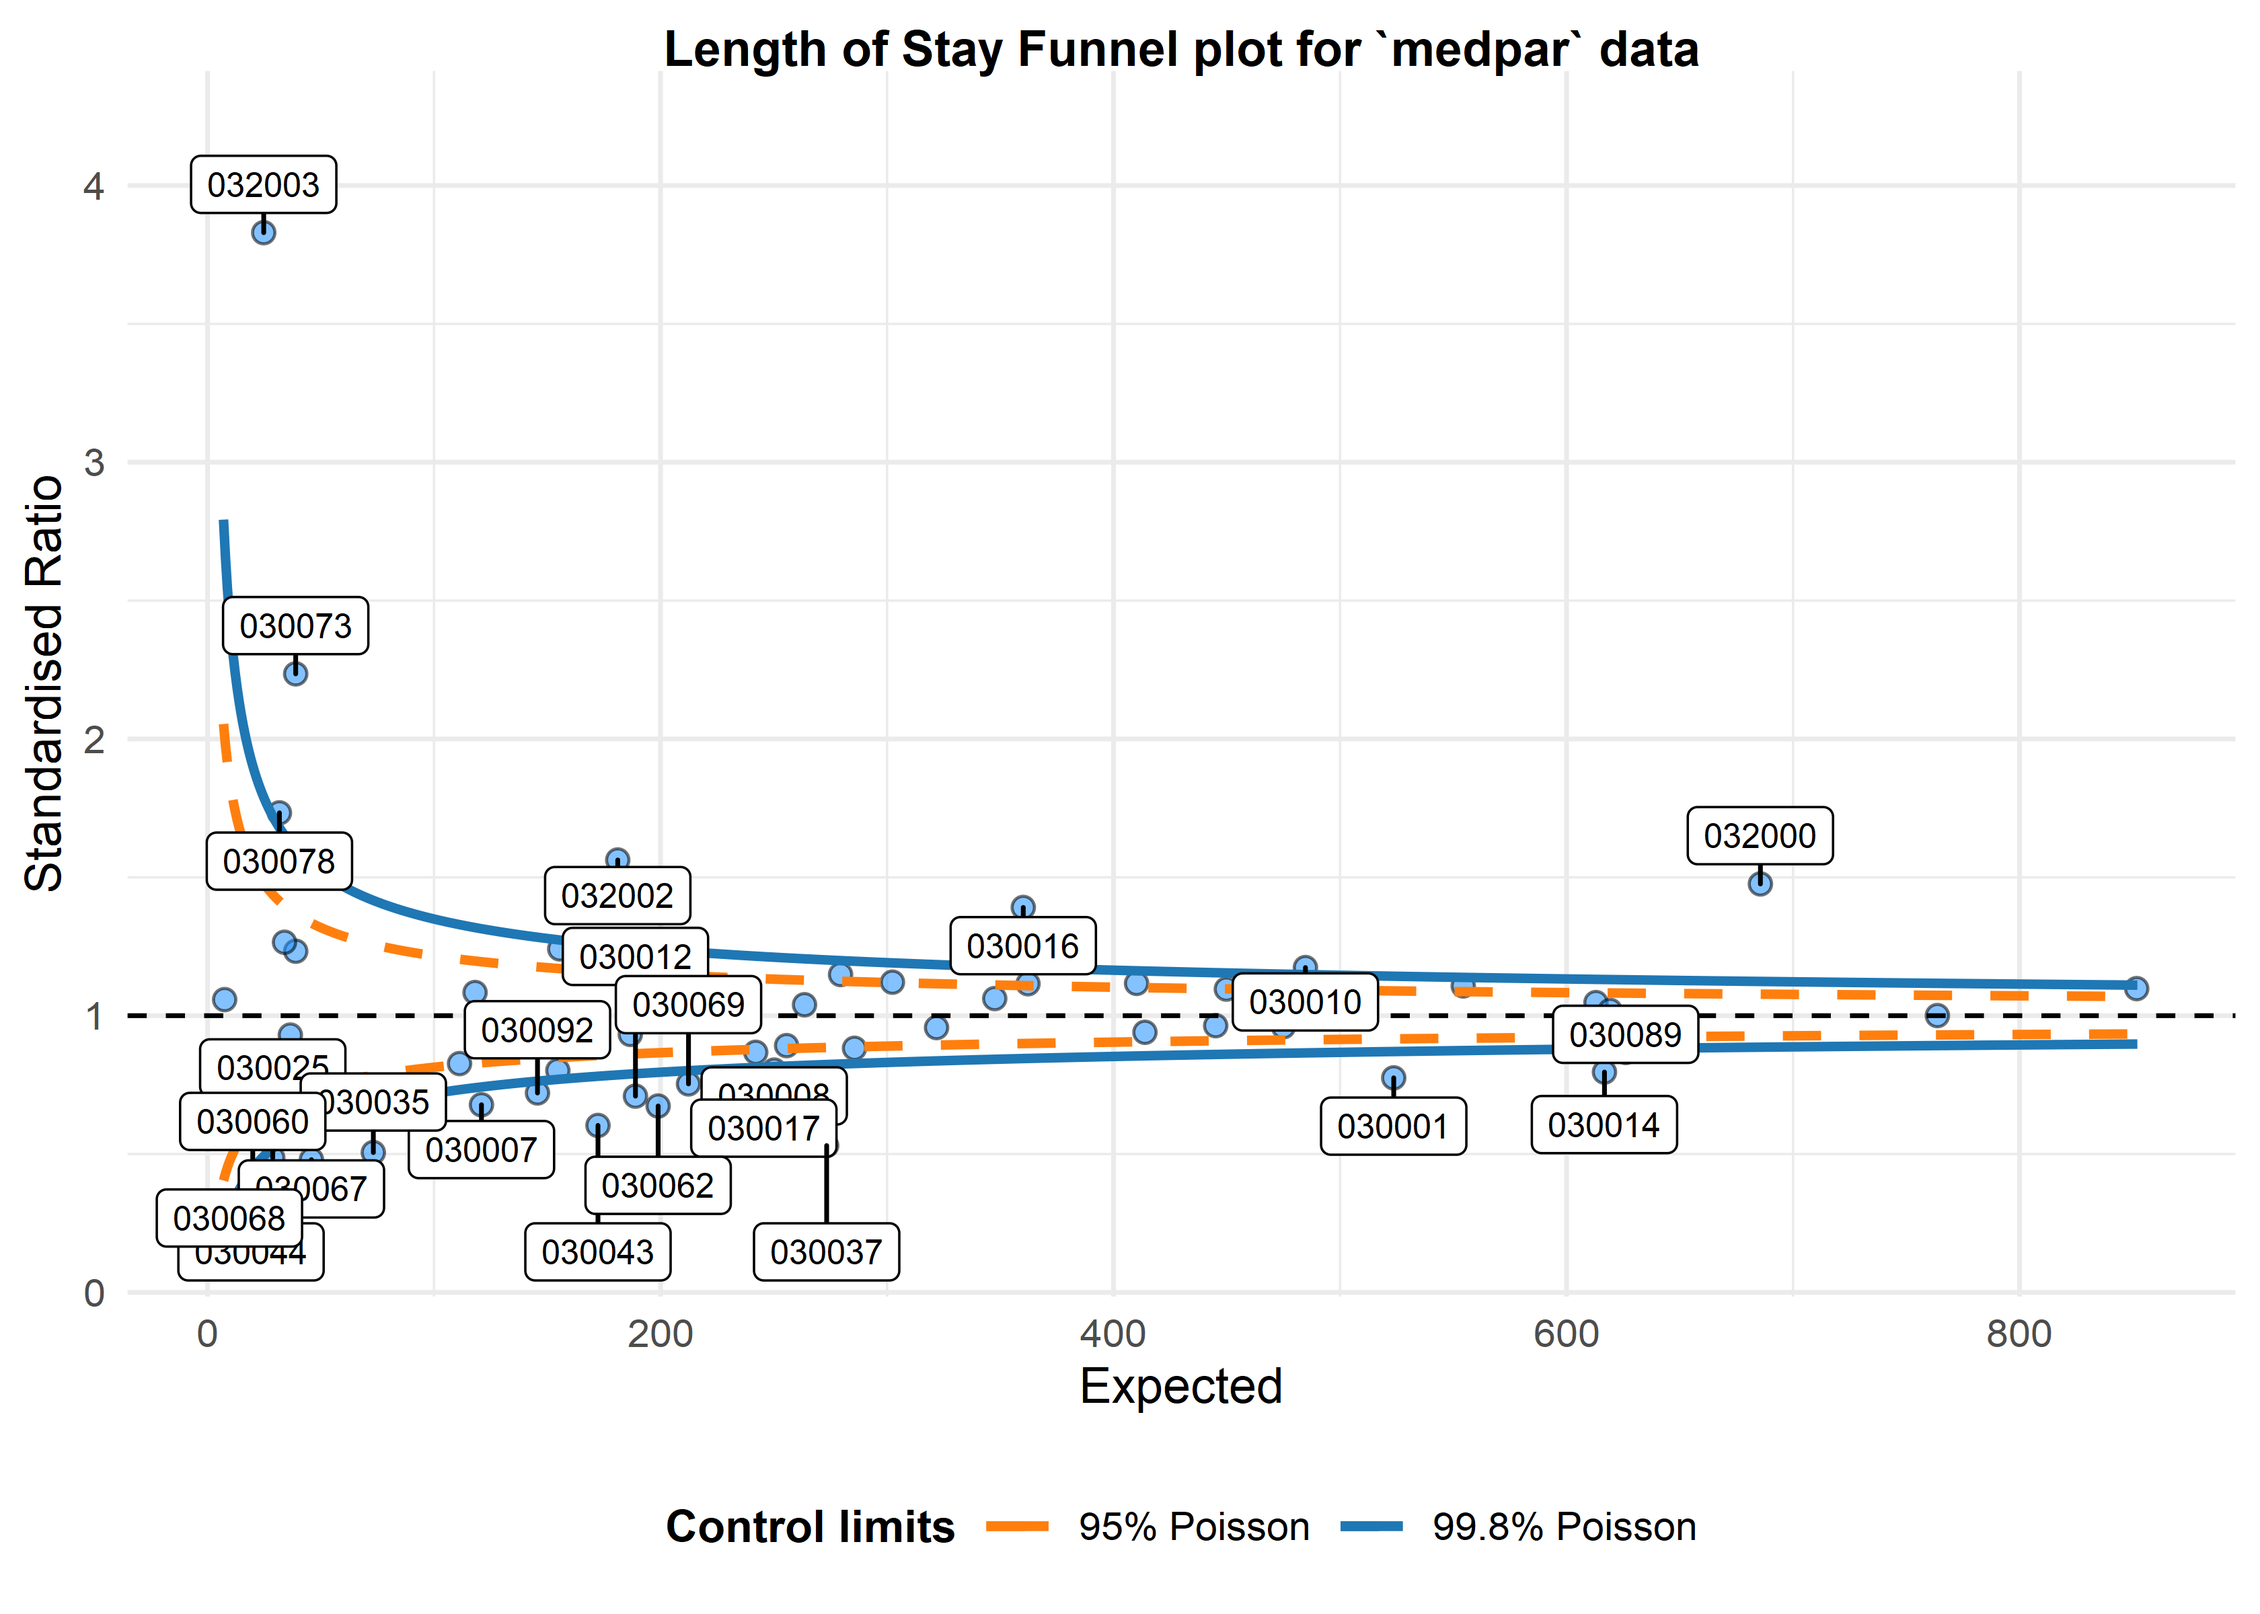
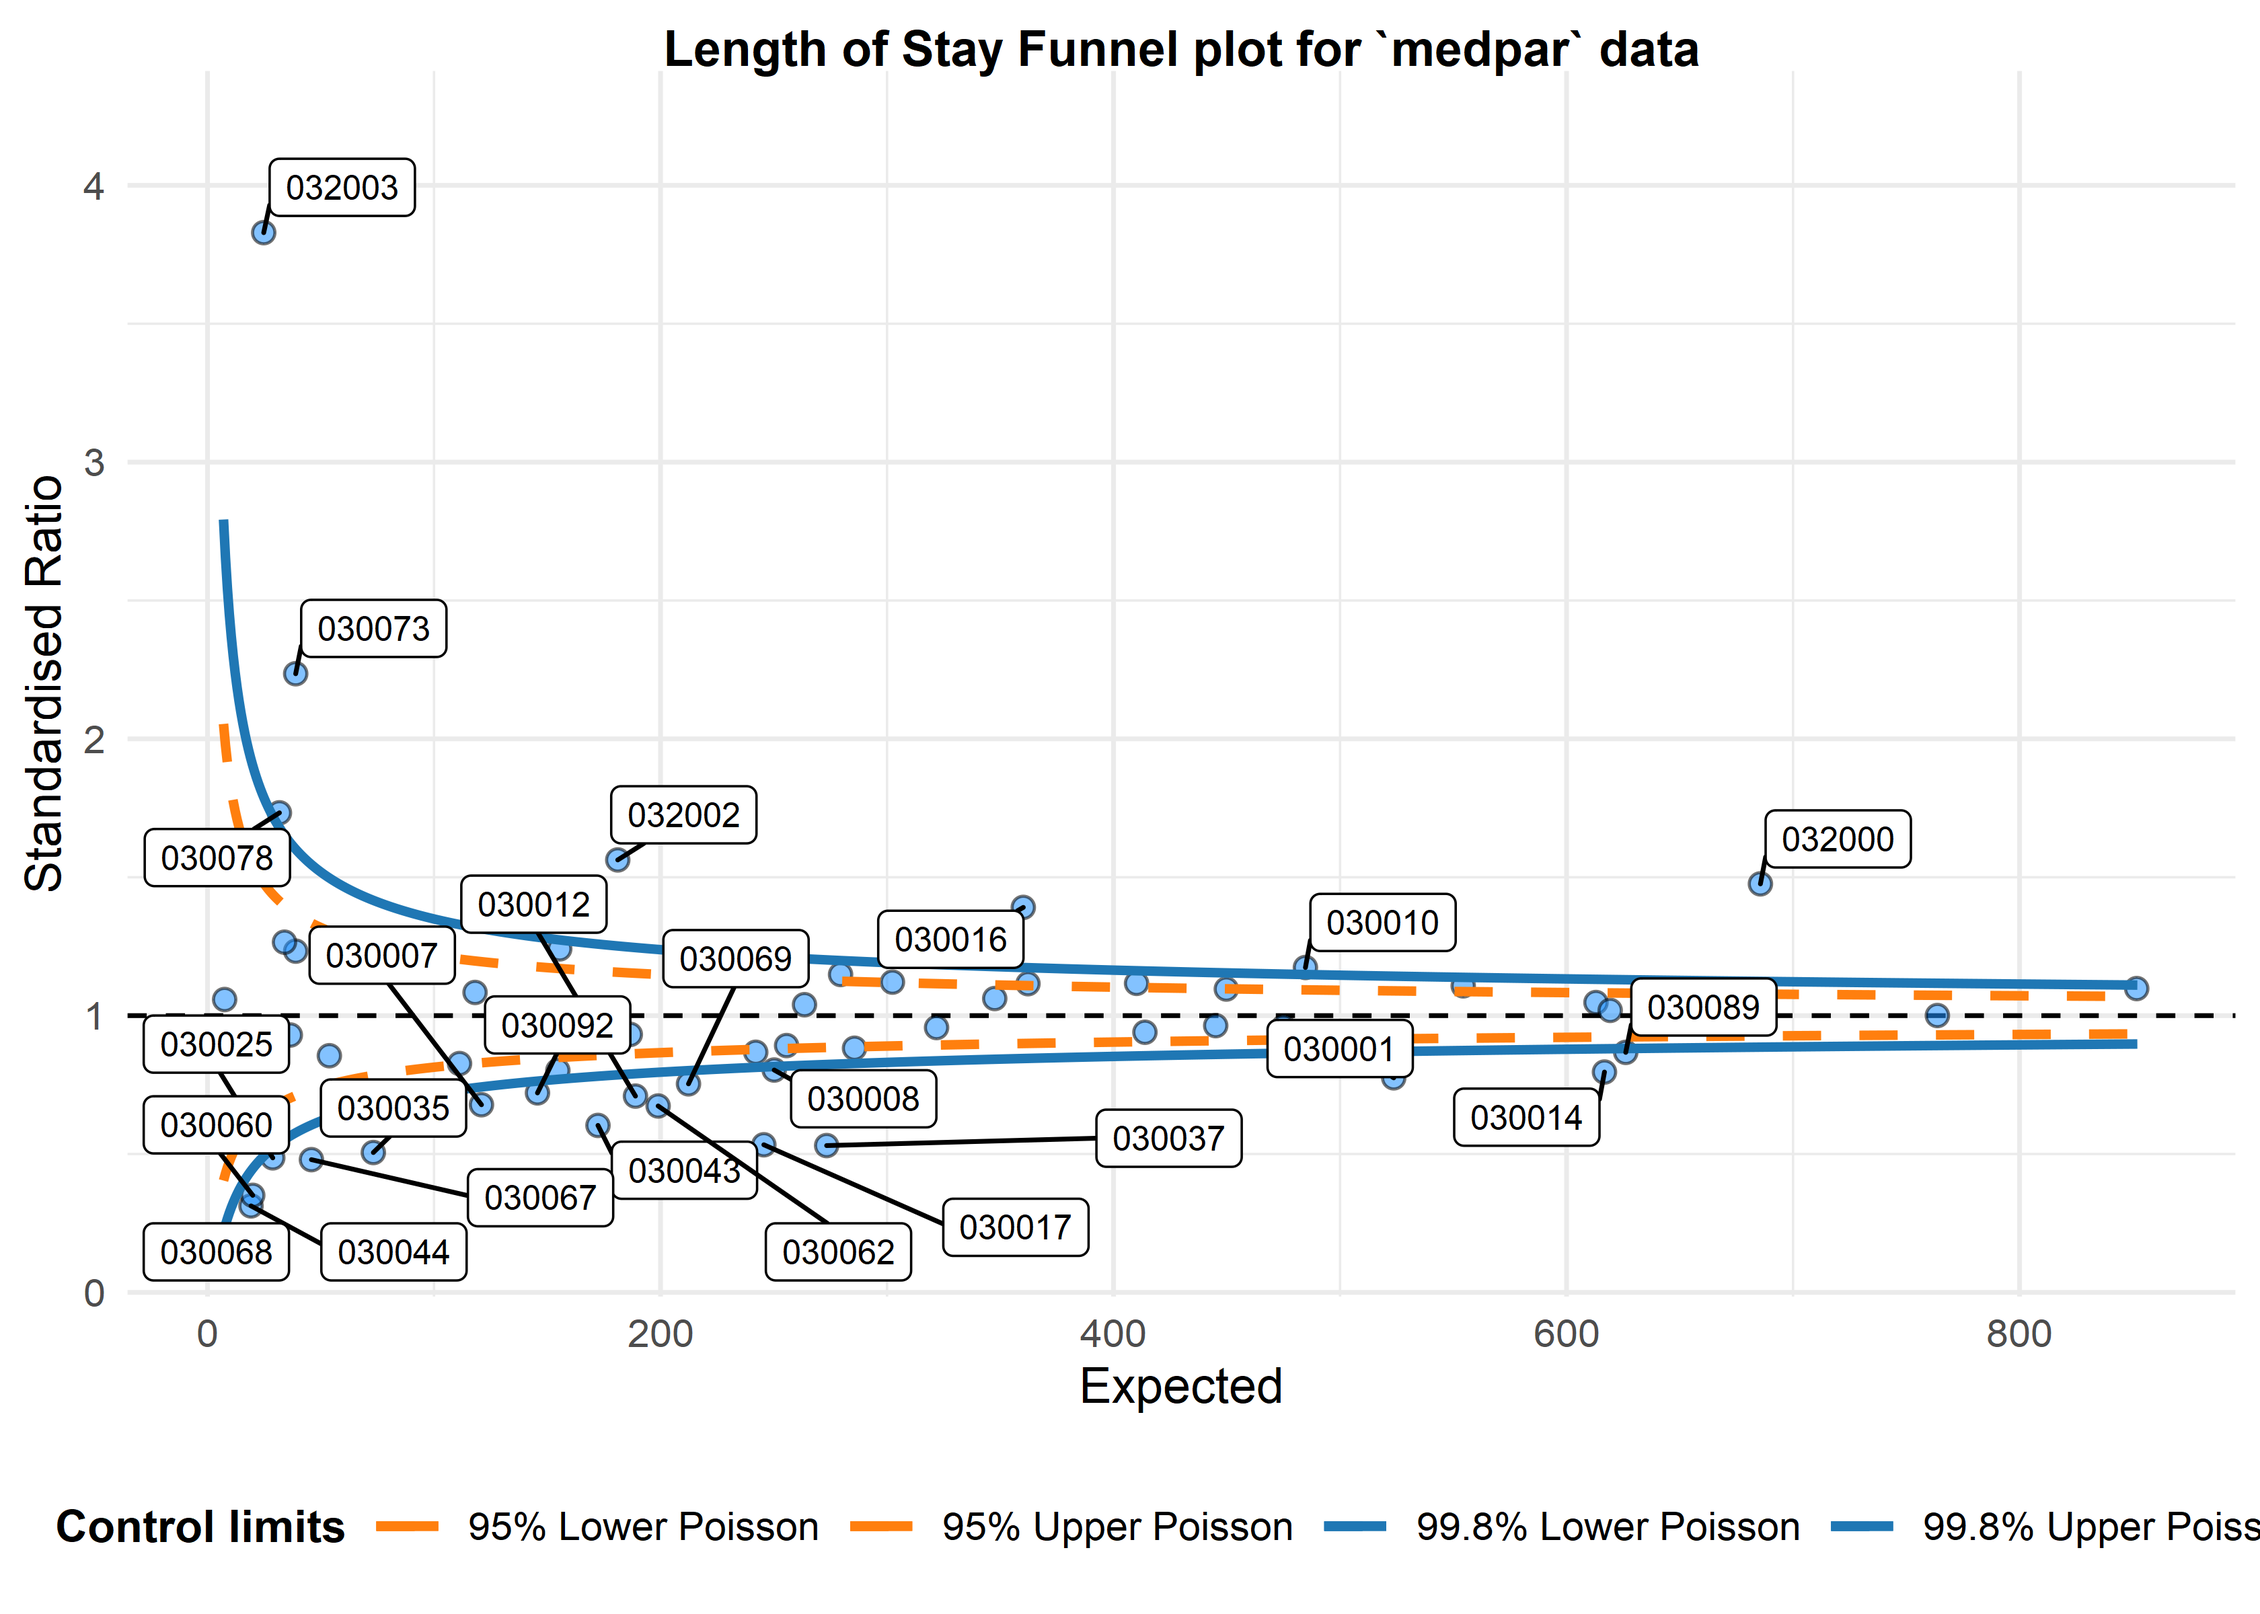
Updated the README for new label argument

diff --git a/README.md b/README.md
@@ -33,7 +33,7 @@ et al
 (2005)](https://qualitysafety.bmj.com/content/14/5/347)<br>
 
 It draws funnel plots using `ggplot2` and allows users to specify
-whether they want t adjust the funnel plot limits for ‘overdispersion.’
+whether they want to adjust the funnel plot limits for ‘overdispersion.’
 This adjustment makes the assumption that we are dealing with clusters
 of values (means) at institutions that are themselves arranged around a
 global mean. We then have ‘within’ institution variation and ‘between
@@ -45,16 +45,17 @@ Winsorised or truncated (with a default 10% at each end of the
 distribution.)
 
 Methods are based on those presented in Spiegelhalter’s papers and the
-Care Quality Commission’s Intelligent Monitoring methodology documents.
-There is a variant method for standardised ratios, used in the NHS’
-Summary Hospital Mortality Indicator’<br> [Summary Hospital-level
-Mortality Indicator, NHS Digital, SHMI
+Care Quality Commission’s Intelligent Monitoring methodology documents,
+with methods for proportions, ratios of counts and indirectly
+standardised ratios. There is a also a variant method for standardised
+ratios, used in the NHS’ Summary Hospital Mortality Indicator’<br>
+[Summary Hospital-level Mortality Indicator, NHS Digital, SHMI
 specification](https://digital.nhs.uk/data-and-information/publications/ci-hub/summary-hospital-level-mortality-indicator-shmi)
 <br>
 
-This uses a log-transformation and truncation of the distribution for
-calculating overdispersion, whereas Spiegelhalter’s methods use a
-square-root and Winsorisation.
+This variant uses a log-transformation and truncation of the
+distribution for calculating overdispersion, whereas Spiegelhalter’s
+methods use a square-root and Winsorisation.
 
 Contributions are welcome. Please note that the ‘FunnelPlotR’ project is
 released with a [Contributor Code of
@@ -62,7 +63,7 @@ Conduct](https://chrismainey.github.io/FunnelPlotR/CODE_OF_CONDUCT.html).
 By contributing to this project, you agree to abide by its terms.
 
 More information available at
-<https://chrismainey.github.io/FunnelPlotR/>
+<a href="https://chrismainey.github.io/FunnelPlotR/" class="uri">https://chrismainey.github.io/FunnelPlotR/</a>
 
 ## Installation
 
@@ -135,7 +136,7 @@ and outliers labelled.
 ``` r
 a<-funnel_plot(numerator=medpar$los, denominator=medpar$prds, group = medpar$provnum, 
             title = 'Length of Stay Funnel plot for `medpar` data', data_type="SR", limit=99,
-            Poisson_limits = TRUE, OD_adjust = FALSE, label_outliers = TRUE)
+            Poisson_limits = TRUE, OD_adjust = FALSE, label = "outlier")
 print(a)
 ```
 
@@ -146,14 +147,13 @@ print(a)
 
 <br><br>
 
-That looks like too many outliers\! There is more variation in our data
+That looks like too many outliers! There is more variation in our data
 than we would expect, and this is referred to as: **overdispersion**. So
 lets check for it: <br> The following ratio should be 1 if our data are
 conforming to Poisson distribution assumption (conditional mean =
 variance). If it is greater than 1, we have overdispersion:
 
 ``` r
-
 sum(mod$weights * mod$residuals^2)/mod$df.residual
 #> [1] 6.240519
 ```
@@ -166,7 +166,7 @@ for this by inflating the limits:
 ``` r
 b<-funnel_plot(numerator=medpar$los, denominator=medpar$prds, group = medpar$provnum, data_type = "SR",
             title = 'Length of Stay Funnel plot for `medpar` data', Poisson_limits = FALSE,
-            OD_adjust = TRUE, sr_method = "SHMI",label_outliers = TRUE, limit=99)
+            OD_adjust = TRUE, sr_method = "SHMI",label = "outlier", limit=99)
 
 print(b)
 ```
@@ -180,7 +180,7 @@ print(b)
 e.g. standardised mortality ratios, readmissions etc.
 
 Please read the package documentation for more info, at:
-<https://chrismainey.github.io/FunnelPlotR/>
+<a href="https://chrismainey.github.io/FunnelPlotR/" class="uri">https://chrismainey.github.io/FunnelPlotR/</a>
 
 Funnel Plot HEX sticker/logo by Paul Chipperfield, check him out at:
-<https://themightychip.com/>
+<a href="https://themightychip.com/" class="uri">https://themightychip.com/</a>
